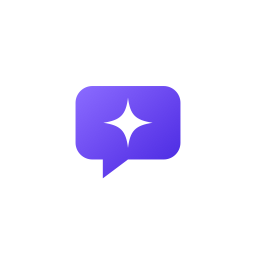
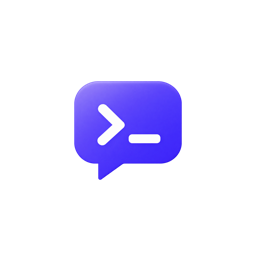
Rename to Relay AI and prepare for the Raycast Store
- Rename the extension to Relay AI with a new terminal-bubble icon
- Show the model as plain text in the answer details
- Rewrite the README with a hero, setup guide and how it works
- Add the MIT license and keep README media in media/

Changed region(s): [[0.2812, 0.3125, 0.7188, 0.7188]]

diff --git a/src/components/ExchangeMetadata.tsx b/src/components/ExchangeMetadata.tsx
@@ -5,7 +5,7 @@ import type { Exchange } from "../lib/types";
 type Tag = { text: string; color?: Color; icon?: Image.ImageLike; url?: string };
 type Row =
   | { type: "tags"; title: string; tags: Tag[] }
-  | { type: "label"; title: string; text: string; color?: Color }
+  | { type: "label"; title: string; text: string; color?: Color; icon?: Image.ImageLike }
   | { type: "separator" };
 
 /**
@@ -13,11 +13,21 @@ type Row =
  * What the agent did step by step is shown in the answer itself while it works.
  */
 function summaryRows(exchange: Exchange, providerName: string): Row[] {
+  // "GPT-6.1-Sol · High · Fast", with a bolt in front when fast mode was on.
   const { choice } = exchange;
-  const tags: Tag[] = [{ text: choice?.modelName ?? choice?.model ?? `${providerName} Default`, color: Color.Purple }];
-  if (choice?.effort) tags.push({ text: effortLabel(choice.effort), color: Color.Blue });
-  if (choice?.fast) tags.push({ text: "Fast", color: Color.Yellow, icon: Icon.Bolt });
-  const rows: Row[] = [{ type: "tags", title: "Model", tags }];
+  const model = [
+    choice?.modelName ?? choice?.model ?? `${providerName} Default`,
+    choice?.effort ? effortLabel(choice.effort) : undefined,
+    choice?.fast ? "Fast" : undefined,
+  ];
+  const rows: Row[] = [
+    {
+      type: "label",
+      title: "Model",
+      text: model.filter(Boolean).join(" · "),
+      icon: choice?.fast ? { source: Icon.Bolt, tintColor: Color.Yellow } : undefined,
+    },
+  ];
 
   // One row of clickable chips: Raycast gives every link row its own caption line, which spreads a list apart.
   const sources = collectSources(exchange);
@@ -87,6 +97,7 @@ export function DetailMetadata({ exchange, providerName }: { exchange: Exchange;
                 key={index}
                 title={row.title}
                 text={row.color ? { value: row.text, color: row.color } : row.text}
+                icon={row.icon}
               />
             );
           case "separator":
@@ -122,6 +133,7 @@ export function ListMetadata({ exchange, providerName }: { exchange: Exchange; p
                 key={index}
                 title={row.title}
                 text={row.color ? { value: row.text, color: row.color } : row.text}
+                icon={row.icon}
               />
             );
           case "separator":

diff --git a/src/providers/codex/locate.ts b/src/providers/codex/locate.ts
@@ -38,7 +38,7 @@ let shellPath: Promise<string[]> | undefined;
 function loginShellPath(): Promise<string[]> {
   shellPath ??= new Promise((resolve) => {
     const shell = process.env.SHELL || "/bin/zsh";
-    const marker = "__AGENT_PROXY_PATH__";
+    const marker = "__RELAY_PATH__";
     execFile(shell, ["-ilc", `printf '${marker}%s${marker}' "$PATH"`], { timeout: 5000 }, (_error, stdout) => {
       const match = String(stdout ?? "").match(new RegExp(`${marker}(.*?)${marker}`));
       resolve(match ? match[1].split(":").filter(Boolean) : []);

diff --git a/src/providers/codex/index.ts b/src/providers/codex/index.ts
@@ -127,7 +127,7 @@ export class CodexProvider implements Provider {
         binary,
         env,
         cwd: this.options.workingDirectory,
-        clientInfo: { name: "raycast_agent_proxy", title: "Raycast Agent Proxy", version: this.options.clientVersion },
+        clientInfo: { name: "raycast_relay", title: "Raycast Relay", version: this.options.clientVersion },
       });
     } catch (error) {
       throw new ProviderError(

diff --git a/README.md b/README.md
@@ -1,43 +1,81 @@
-# Agent Proxy
+<p align="center">
+  <img src="media/icon.png" width="128" height="128" alt="Relay AI icon: a speech bubble with a terminal prompt">
+</p>
 
-Quick AI answers and chats inside Raycast, powered by the coding agent you already have installed. No API keys and no Raycast AI subscription: requests go through your local agent CLI and use its existing sign-in (for example your ChatGPT plan with Codex).
+<h1 align="center">Relay AI</h1>
 
-Providers:
+<p align="center">
+  <strong>Quick AI answers and chats in Raycast, powered by the coding agent you already pay for.</strong>
+  <br>
+  No API keys, no extra subscription. Just ask.
+</p>
 
-- **Codex CLI**: available now
-- Claude Code, OpenCode: coming soon
+<p align="center">
+  <img alt="Raycast extension" src="https://img.shields.io/badge/Raycast-extension-FF6363?logo=raycast&logoColor=white">
+  <img alt="macOS" src="https://img.shields.io/badge/platform-macOS-1f1f1f?logo=apple&logoColor=white">
+  <img alt="Provider: Codex CLI" src="https://img.shields.io/badge/provider-Codex%20CLI-6E56CF">
+</p>
+
+---
+
+Relay sends your question to an AI coding agent installed on your Mac, such as the [Codex CLI](https://github.com/openai/codex), and streams the answer into Raycast. The agent signs in with your existing plan (for example ChatGPT through Codex), so there's nothing new to pay for and no API key to manage.
+
+- **Ask without the ceremony.** Type a question, get one answer. No new chat to create, no app to open.
+- **Chat when you need to.** Turn any answer into a conversation, or start one in Quick Chat.
+- **See what the agent does.** Web searches, pages it reads and its reasoning show up live, and every source is one click away.
+- **Your model, your call.** Pick the model, how hard it thinks and whether it runs in fast mode.
 
 ## Commands
 
-| Command          | What it does                                                                                                                                             |
-| ---------------- | -------------------------------------------------------------------------------------------------------------------------------------------------------- |
-| **Ask Question** | One question, one answer, no chat to manage. Press <kbd>↵</kbd> on the answer to **Continue in Chat** when you have a follow-up.                         |
-| **Quick Chat**   | A classic chat. The search bar is the message box, each exchange is a list item and the detail pane shows the answer. Earlier chats are in the dropdown. |
+| Command          | What it does                                                                                                                                          |
+| ---------------- | ----------------------------------------------------------------------------------------------------------------------------------------------------- |
+| **Ask Question** | One question, one answer. Press <kbd>↵</kbd> on the answer to **Continue in Chat** when you have a follow-up.                                         |
+| **Quick Chat**   | A classic chat: the search bar is the message box, every exchange is a list item and the answer sits next to it. Earlier chats are one dropdown away. |
 
-Both commands take an optional argument, so you can type `Ask Question ⇥ your question` or `Quick Chat ⇥ your message` straight from the root search.
+Both take an optional argument, so `Ask Question ⇥ your question` or `Quick Chat ⇥ your message` works straight from the root search.
+
+### Ask from anywhere: use Relay as a fallback command
+
+Set **Ask Question** as a fallback command (Raycast Settings → Extensions → Ask Question → _Fallback Command_). Then type any question into Raycast's root search and pick **Ask Question** at the bottom of the results.
 
 ### See what the agent is doing
 
-While the agent works, a status line shows what it is doing right now: searching the web (with the query), reading a page, or reasoning, titled by the model's own summary (e.g. _Comparing sources_). Once the answer arrives, it turns into a summary like _Searched the web 2 times · Thought for 4s_.
+While the agent works, one status line shows what it's doing right now: searching the web (with the query), reading a page, or reasoning, titled by the model's own summary (e.g. _Comparing sources_). When the answer arrives, the line becomes a summary such as _Searched the web 2 times · Thought for 4s_.
 
-The sidebar of Ask Question (<kbd>⌘ I</kbd>) summarizes the answer: the model, reasoning effort and speed it used, every page behind it (cited links and pages the agent read), and one line of stats with the duration, tokens and how much of your plan's usage limit is used. In Quick Chat, <kbd>⌘ I</kbd> shows the same summary below each answer.
+Next to the answer, a sidebar (<kbd>⌘ I</kbd>) lists the model that answered, every page behind the answer, and the duration and token count. When your plan's usage limit gets close, it shows how much is left.
 
 ### Model controls
 
 From the action panel (<kbd>⌘ K</kbd>), also before you ask:
 
-- **Model** (<kbd>⌘ ⇧ M</kbd>): any model your Codex account offers.
-- **Reasoning** (<kbd>⌘ ⇧ R</kbd>): the efforts the selected model supports, from Low to Ultra. Lower is faster.
-- **Fast Mode** (<kbd>⌘ ⇧ F</kbd>): the model's faster service tier, when it has one (uses more of your plan's quota).
+| Control                        | What it does                                                                         |
+| ------------------------------ | ------------------------------------------------------------------------------------ |
+| **Model** <kbd>⌘ ⇧ M</kbd>     | Any model your Codex account offers.                                                 |
+| **Reasoning** <kbd>⌘ ⇧ R</kbd> | The reasoning efforts the model supports, from Low to Ultra. Lower answers faster.   |
+| **Fast Mode** <kbd>⌘ ⇧ F</kbd> | The model's faster service tier, when it has one. It uses more of your plan's quota. |
 
 Your choice is remembered and applies to both commands.
 
-### Use Ask Question as a fallback command
+## Getting started
 
-1. Open Raycast Settings → Extensions, select **Ask Question** and assign it as a **Fallback Command** (or right-click it in the root search → _Manage Fallback Commands_).
-2. Type any question into Raycast's root search, then pick **Ask Question** from the fallbacks.
+1. Install the [Codex CLI](https://github.com/openai/codex): `npm install -g @openai/codex` or `brew install codex`.
+2. Sign in once in your terminal: `codex login`.
+3. Install Relay. Until it's in the Raycast Store, install it from source:
 
-### Shortcuts
+   ```bash
+   git clone https://github.com/Hinkolas/raycast-relay.git
+   cd raycast-relay
+   npm install
+   npm run dev
+   ```
+
+   `npm run dev` adds Relay to Raycast. It stays installed after you stop the command.
+
+4. Open Raycast and run **Ask Question** or **Quick Chat**.
+
+Relay finds `codex` through your login shell's `PATH` and the usual install locations (Homebrew, npm, nvm, `~/.local/bin`). If yours lives elsewhere, set **Codex CLI Path** in the extension preferences.
+
+## Shortcuts
 
 | Action            | Shortcut         |
 | ----------------- | ---------------- |
@@ -53,37 +91,50 @@ Your choice is remembered and applies to both commands.
 | Show/Hide Details | <kbd>⌘ I</kbd>   |
 | Delete Chat       | <kbd>⌃ D</kbd>   |
 
-## Setup
-
-1. Install the Codex CLI (`npm install -g @openai/codex` or `brew install codex`).
-2. Sign in once in your terminal: `codex login`.
-3. Run **Ask Question** or **Quick Chat**.
-
-The extension finds `codex` through your login shell's `PATH` and common install locations (Homebrew, npm, nvm, `~/.local/bin`, …). If it can't, set **Codex CLI Path** in the extension preferences.
-
 ## Preferences
 
-- **Web Search**: lets the agent search the web for current information.
-- **Custom Instructions**: added to every conversation, e.g. "Answer in German".
-- **Codex CLI Path**: only needed when `codex` isn't found automatically.
+| Preference              | Description                                                          |
+| ----------------------- | -------------------------------------------------------------------- |
+| **Web Search**          | Let the agent search the web for current information. On by default. |
+| **Custom Instructions** | Added to every conversation, e.g. "Answer in German".                |
+| **Codex CLI Path**      | Only needed when `codex` isn't found automatically.                  |
 
 ## How it works
 
-The extension starts `codex app-server`, the JSON-RPC interface the Codex IDE extension and T3 Code use, and streams answers from it. Chats run with:
+```mermaid
+flowchart LR
+  raycast["Raycast<br/>Ask Question · Quick Chat"] --> relay["Relay"]
+  relay -- "JSON-RPC over stdio" --> server["codex app-server"]
+  server --> plan[("Your Codex sign-in<br/>e.g. ChatGPT plan")]
+```
 
-- a chat-assistant system prompt instead of Codex's coding-agent prompt,
-- a read-only sandbox with approvals disabled, in an empty working directory in the extension's support folder,
-- **ephemeral threads**, so quick questions don't show up in your Codex session history.
+Relay starts `codex app-server`, the same interface the Codex IDE extension uses, and streams answers from it. Every chat runs:
 
-Chat history is stored locally in Raycast. When you reopen an earlier chat, its transcript is handed to a fresh Codex thread.
+- with a chat-assistant system prompt instead of Codex's coding-agent prompt,
+- in a read-only sandbox with approvals turned off, inside an empty folder in the extension's support directory,
+- on **ephemeral threads**, so your questions don't clutter your Codex session history.
+
+Chat history stays on your Mac in Raycast's local storage. When you reopen an earlier chat, its transcript is handed to a fresh thread.
+
+## Roadmap
+
+- [x] Codex CLI
+- [ ] Claude Code
+- [ ] OpenCode
 
 ## Development
 
 ```bash
 npm install
-npm run dev     # opens the extension in Raycast in development mode
+npm run dev     # run Relay in Raycast with hot reload
 npm run lint
 npm run build
 ```
 
-Provider code lives in `src/providers/` and doesn't depend on Raycast APIs. A new provider implements the `Provider` interface from `src/providers/types.ts` and is registered in `src/lib/settings.ts`.
+Providers live in `src/providers/` and don't depend on Raycast APIs. A new provider implements the `Provider` interface in `src/providers/types.ts` and is registered in `src/lib/settings.ts`.
+
+---
+
+Released under the [MIT License](LICENSE).
+
+<sub>Relay AI is an independent project and isn't affiliated with Raycast, OpenAI or Anthropic.</sub>

diff --git a/CHANGELOG.md b/CHANGELOG.md
@@ -1,4 +1,4 @@
-# Agent Proxy Changelog
+# Relay AI Changelog
 
 ## [Initial Version] - {PR_MERGE_DATE}
 
